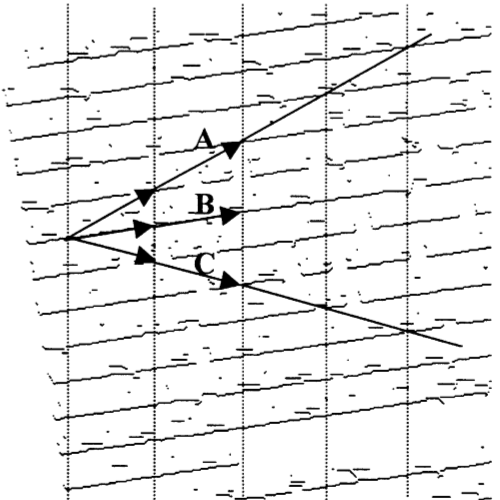
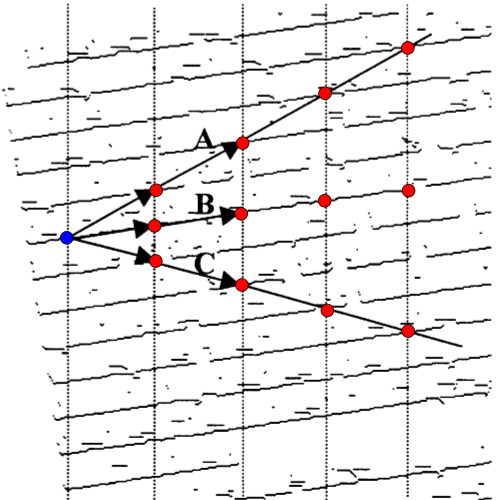
Tried to explain skew detection better

diff --git a/Documentation/zavrsni.tex b/Documentation/zavrsni.tex
@@ -229,7 +229,7 @@ Vrijednost $\delta$ možemo aproksimirati kao
         \displaystyle \sum_x
         \displaystyle \sum_y
         N(x, y)
-    }
+    }.
 \]
 
 Konačan rezultat nakon primjene opisanog postupka binarizacije prikazan je na slici \ref{fig:finalThreshold}.
@@ -263,7 +263,9 @@ Za potrebe toga koristi se klizni prozor dimenzija $n\times n$.
 U slučaju kada je središnji element kliznog prozora crne boje, prebrojavaju se svi pozadinski (bijeli) slikovni elementi unutar kliznog prozora, što je označeno s $P_{sh}$.
 Ako je $P_{sh} > k_{sh}$, gdje je $k_{sh}$ proizvoljno zadana konstanta, središnji slikovni element se postavlja u bijelu boju.
 Na slici \ref{fig:shrink} prikazan je rezultat obrade binarizirane slike navedenim postupkom uz $n = 5$ i $k_{sh} = 0.8$.
-Primjećuje se kako i dalje postoje smetnje na slici, no problem nastaje kod toga što bi niža vrijednost parametra $k_{sh}$ osigurala bolje uklanjanje šumova, ali bi istovremeno povećala vjerojatnost da se uklone elementi teksta, što nije poželjno.\\
+Primjećuje se kako i dalje postoje smetnje na slici.
+Uočene smetnje mogu se ublažiti smanjenjem vrijednosti parametra $k_{sh}$, čime se osigurava bolje uklanjanje šuma.
+Problem kod toga je što se smanjenjem tog parametra istovremeno i povećava vjerojatnost da se uklone elementi teksta, što nije poželjno.\\
 
 Drugi korak spomenut u ovom postupku provodi se slično kao i prethodni.
 Potrebno je prebrojati broj crnih slikovnih elemenata, $P_{sw}$, koji se nalaze unutar kliznog prozora dimenzija $n\times n$.
@@ -279,30 +281,40 @@ Nakošenost digitalizirane slike može uzrokovati teže ili lošije prepoznavanj
 
 \section{Računanje kuta rotacije}
 Počevši od dokumenta kakav je prikazan na slici \ref{fig:skew_original}, može se uočiti kako se na njemu jasno prepoznaju vodoravne linije dokumenta.
-Unatoč činjenici da to nije opći slučaj koji uvijek vrijedi, u ovom radu nije razrađeno kako općeniti dokument svesti na ovakav oblik, već se kreće od pretpostavke da će dokument uvijek imati jasno izražene linije, bilo vodoravne, bilo okomite.
+Unatoč činjenici da to nije opći slučaj koji uvijek vrijedi, u ovom radu nije razrađeno kako općeniti dokument svesti na ovakav oblik, već se kreće od pretpostavke da će dokument uvijek imati jasno izražene linije, bilo vodoravne, bilo vertikalne.
 Ova pretpostavka vrijedi isključivo iz razloga da se rad fokusira na prepoznavanje tablica na skeniranim dokumentima.\\
 
 \begin{figure}[ht!] 
     \centering
     \includegraphics[width=.4\textwidth]{Images/Skew_original.png}
     \captionsetup{justification=centering}
-    \caption{Početni nakošeni dokument\cite{article:Skew-detection}}
+    \caption{Početni nakošeni dokument (slika je preuzeta iz \cite{article:Skew-detection})}
     \label{fig:skew_original}
 \end{figure}
 
-Temeljna ideja koja se koristi prilikom izračuna kuta rotacije je ta da se dokument presiječe okomitim linijama, što je predloženo u radu \cite{article:Skew-detection}.
-Za svaku okomitu liniju se računaju točke u kojima ona sječe linije osnovnog dokumenta.
-Jednom kada su određene točke sjecišta, moguće je odabrati jednu takvu točku najljevije okomite linije ($T_1$) te  ju usporediti sa svim točkama koje se nalaze desno od nje ($T_2$).
+Temeljna ideja koja se koristi prilikom izračuna kuta rotacije je ta da se dokument presiječe određenim brojem vertikalnih linija, što je predloženo u radu \cite{article:Skew-detection}.
+Za svaku vertikalnu liniju određuju se točke u kojima ona sječe vodoravne linije početnog dokumenta, kao što je prikazano na slici \ref{fig:skew_points}.
+Dobivene točke presjecišta označene su kao $T_{n, m}(x_{n, m}, y_{n, m})$, gdje $n$ označava broj vertikalne linije gledano od lijeva na desno, a broj $m$ označava točku prsjeka za danu vertikalnu liniju, gledano od gore prema dole.
+
+\begin{figure}[ht!] 
+    \centering
+    \includegraphics[width=.7\textwidth]{Images/Skew_points.png}
+    \captionsetup{justification=centering}
+    \caption{Prikaz isječka dokumenta presječenog sa $4$ proizvoljne okomite linije}
+    \label{fig:skew_points}
+\end{figure}
+
+Jednom kada su određene točke sjecišta, moguće je odabrati jednu takvu točku najljevije vertikalne linije ($T_{1, a}$) te  ju usporediti sa svim točkama linija koje se nalaze desno od nje ($T_{b, c}, \text{t.d. } b \geq 2$).
 Dvije tako odabrane točke analiziraju se tako da se kroz njih povuče pravac, čija jednadžba glasi: 
 \[
-    y - y_1 = k(x - x_1),
+    y - y_{1, a} = k(x - x_{1, a}),
 \]
 gdje je $k$ koeficijent smjera:
 \[
-    k = \frac{y_2 - y_1}{x_2 - x_1}.
+    k = \frac{y_{b, c} - y_{1, a}}{x_{b, c} - x_{1, a}}.
 \]
 Pomoću koeficijenta  smjera $k$ moguće je izračunati kut pod kojim je dobiveni pravac nagnut u odnosu na $x$ os, kao $\alpha = tan^{-1}(k)$.
-Uz pretpostavku da dokument nije rotiran te da se točke $T_1$ i $T_2$ nalaze na istim vodoravnim linijama dokumenta, kut $\alpha$ trebao bi iznositi $0\degree$.
+Uz pretpostavku da dokument nije rotiran te da se točke $T_{1, a}$ i $T_{b, c}$ nalaze na istim vodoravnim linijama dokumenta, kut $\alpha$ iznosi $0\degree$.
 U slučaju da je dokument rotiran, ovako određen kut $\alpha$ bit će jednak stupnju rotacije dokumenta.\\
 
 \begin{figure}[th!]
@@ -311,31 +323,34 @@ U slučaju da je dokument rotiran, ovako određen kut $\alpha$ bit će jednak st
         \centering
         \includegraphics[width=.85\linewidth]{Images/Skew_equidistant.png}
         \captionsetup{justification=centering}
-        \caption{Dokument podijeljen ekvidistantnim linijama\cite{article:Skew-detection}}
+        \caption{Dokument podijeljen ekvidistantnim linijama (slika je preuzeta iz \cite{article:Skew-detection})}
         \label{fig:skew_equidistant}
     \end{subfigure}%
     \begin{subfigure}{.5\textwidth}
         \centering
         \includegraphics[width=.85\linewidth]{Images/Skew_random.png}
         \captionsetup{justification=centering}
-        \caption{Dokument podijeljen linijama sa nasumičnim udaljenostima\cite{article:Skew-detection}}
+        \caption{Dokument podijeljen linijama sa nasumičnim udaljenostima (slika je preuzeta iz \cite{article:Skew-detection})}
         \label{fig:skwe_random}
     \end{subfigure}
     \caption{Primjer podjele dokumenta okomitim linijama}
     \label{fig:skew_verticalLines}
 \end{figure}
 
-Jedan od problema koji preostaje je početna pretpostavka da se točke $T_1$ i $T_2$ nalaze na istoj vodoravnoj liniji dokumenta, što neće biti istinito u većini slučajeva.
-To se rješava tako da se izračunaju kutevi koje zatvaraju svi pravci koji počinju u točki $T_1$, a pritom se bilježi koliko puta se pojavio koji kut.
+Jedan od problema koji preostaje je početna pretpostavka da se točke $T_{1, a}$ i $T_{b, c}$ nalaze na istoj vodoravnoj liniji dokumenta, što neće biti istinito u većini slučajeva.
+To se rješava tako da se izračunaju kutevi koje zatvaraju svi pravci koji počinju u točki $T_{1, a}$ i prolaze kroz točku $T_{b, c}$ za svaku moguću točku $T_{b, c}$.
+Pritom se bilježi koliko je puta izračunat pojedini kut.
 Uz ovaj pristup rotaciju dokumenta više ne određuje kut $\alpha$ koji je dobiven za jedan pravac, već onaj kut koji je najviše puta zabilježen.
-Ovaj pristup prikazan je na slici \ref{fig:skew_verticalLines}, gdje je za određenu podjelu okomitim linijama i odabranu početnu točku prikazan izračun triju kuteva: \textbf{A}, \textbf{B}, \textbf{C}.
-Slika \ref{fig:skew_equidistant} također prikazuje i važnost načina odabira okomitih linija.
-Na navedenoj slici odabrane su ekvidistantne linije, zbog čega dolazi do toga da se sva tri kuta javljaju jednak broj puta, što ometa rad algoritma.
-Za razliku od toga, na slici \ref{fig:skwe_random} koriste se linije s nasumičnim međusobnim udaljenostima te se primjećuje kako se na njoj kut \textbf{B} javlja prilikom svakog presjeka okomite linije s vodoravnom linijom na kojoj se nalazi početna točka $T_1$, dok se ostali kutevi javljaju samo jednom, čime se prepoznaje da oni dolaze radi krivo odabranih točaka.
+Ovaj pristup prikazan je na slici \ref{fig:skew_verticalLines}, gdje je za određenu podjelu vertikalnim linijama i odabranu početnu točku (označeno plavom bojom na slici) prikazan izračun kuteva triju pravaca: \textbf{A}, \textbf{B}, \textbf{C}.
+Slika \ref{fig:skew_equidistant} također prikazuje i važnost načina odabira vertikalnih linija kojima se dokument presjeca.
+Na navedenoj slici linije su postavljene ekvidistantno, zbog čega dolazi do toga da se sva tri pravca prolaze kroz jednak broj presjecišta horizontalnih i vertikalnih linija.
+Posljedica toga je da se svaki od triju prikazanih kuteva javlja $4$ puta što je prikazano crvenim točkama presjecišta, zbog čega nije moguće odrediti koji se kut javlja najveći broj puta.
+Za razliku od toga, na slici \ref{fig:skwe_random} koriste se vertikalne linije s nasumičnim međusobnim udaljenostima te se primjećuje kako se na njoj pravac označen sa \textbf{B} prolazi kroz $4$ presjecišta, dok pravci \textbf{A} i \textbf{C} prolaze svaki kroz samo jedno.
+Na temelju toga se zaključuje da je kut kojeg pravac \textbf{B} zatvara s $x$ osi jednak rotaciji dokumenta, a da se ostali izračunati kutevi javljaju kao rezultat točaka odabranih na različitim horizontalnim pravcima.
 
 
 \section{Rezultati}
-Kako bi se uštedjelo na vremenu izvođenja, navedeni algoritam je implementiran tako da nakon što odredi nasumične okomite linije odabire samo $4$ početne točke, prethodno označene sa $T_1$.
+Kako bi se uštedjelo na vremenu izvođenja, navedeni algoritam je implementiran tako da nakon što odredi nasumične okomite linije odabire samo $4$ početne točke, prethodno označene s $T_{1, a}$.
 Za te točke se računaju kutevi sa svim ostalim točkama, a na kraju se provjerava postoji li kut koji prevladava.
 Primjer jednog takvog izvođenja prikazan je na slici \ref{fig:skew1}.\\
 
@@ -343,7 +358,7 @@ Primjer jednog takvog izvođenja prikazan je na slici \ref{fig:skew1}.\\
     \centering
     \includegraphics[width=.8\textwidth]{Images/Skew1.pdf}
     \captionsetup{justification=centering}
-    \caption{Histogram s prikazom frekvencija pojavljivanja kuteva}
+    \caption{Histogram s prikazom frekvencija pojavljivanja kuteva uz kvant od $5\degree$}
     \label{fig:skew1}
 \end{figure}
 
@@ -355,7 +370,7 @@ Na ovoj slici se primjećuje kako se za veće iznose kuteva javlja veći šum u 
     \centering
     \includegraphics[width=.8\textwidth]{Images/Skew2.pdf}
     \captionsetup{justification=centering}
-    \caption{Histogram s prikazom frekvencija pojavljivanja kuteva}
+    \caption{Histogram s prikazom frekvencija pojavljivanja kuteva uz kvant od $5\degree$}
     \label{fig:skew2}
 \end{figure}
 
@@ -367,9 +382,11 @@ Jednostavno i efikasno rješenje navedenog problema je ponovno određivanje okom
     \centering
     \includegraphics[width=.8\textwidth]{Images/Skew3.pdf}
     \captionsetup{justification=centering}
-    \caption{Histogram s prikazom frekvencija pojavljivanja kuteva}
+    \caption{Histogram s prikazom frekvencija pojavljivanja kuteva uz kvant od $5\degree$}
     \label{fig:skew3}
 \end{figure}
+
+Opisani postupak korišten je prije daljnje pretrage svih slika opisanih u nastavku rada.
 
 \chapter{Detekcija tablice}
 \label{ch:tableDetection}
